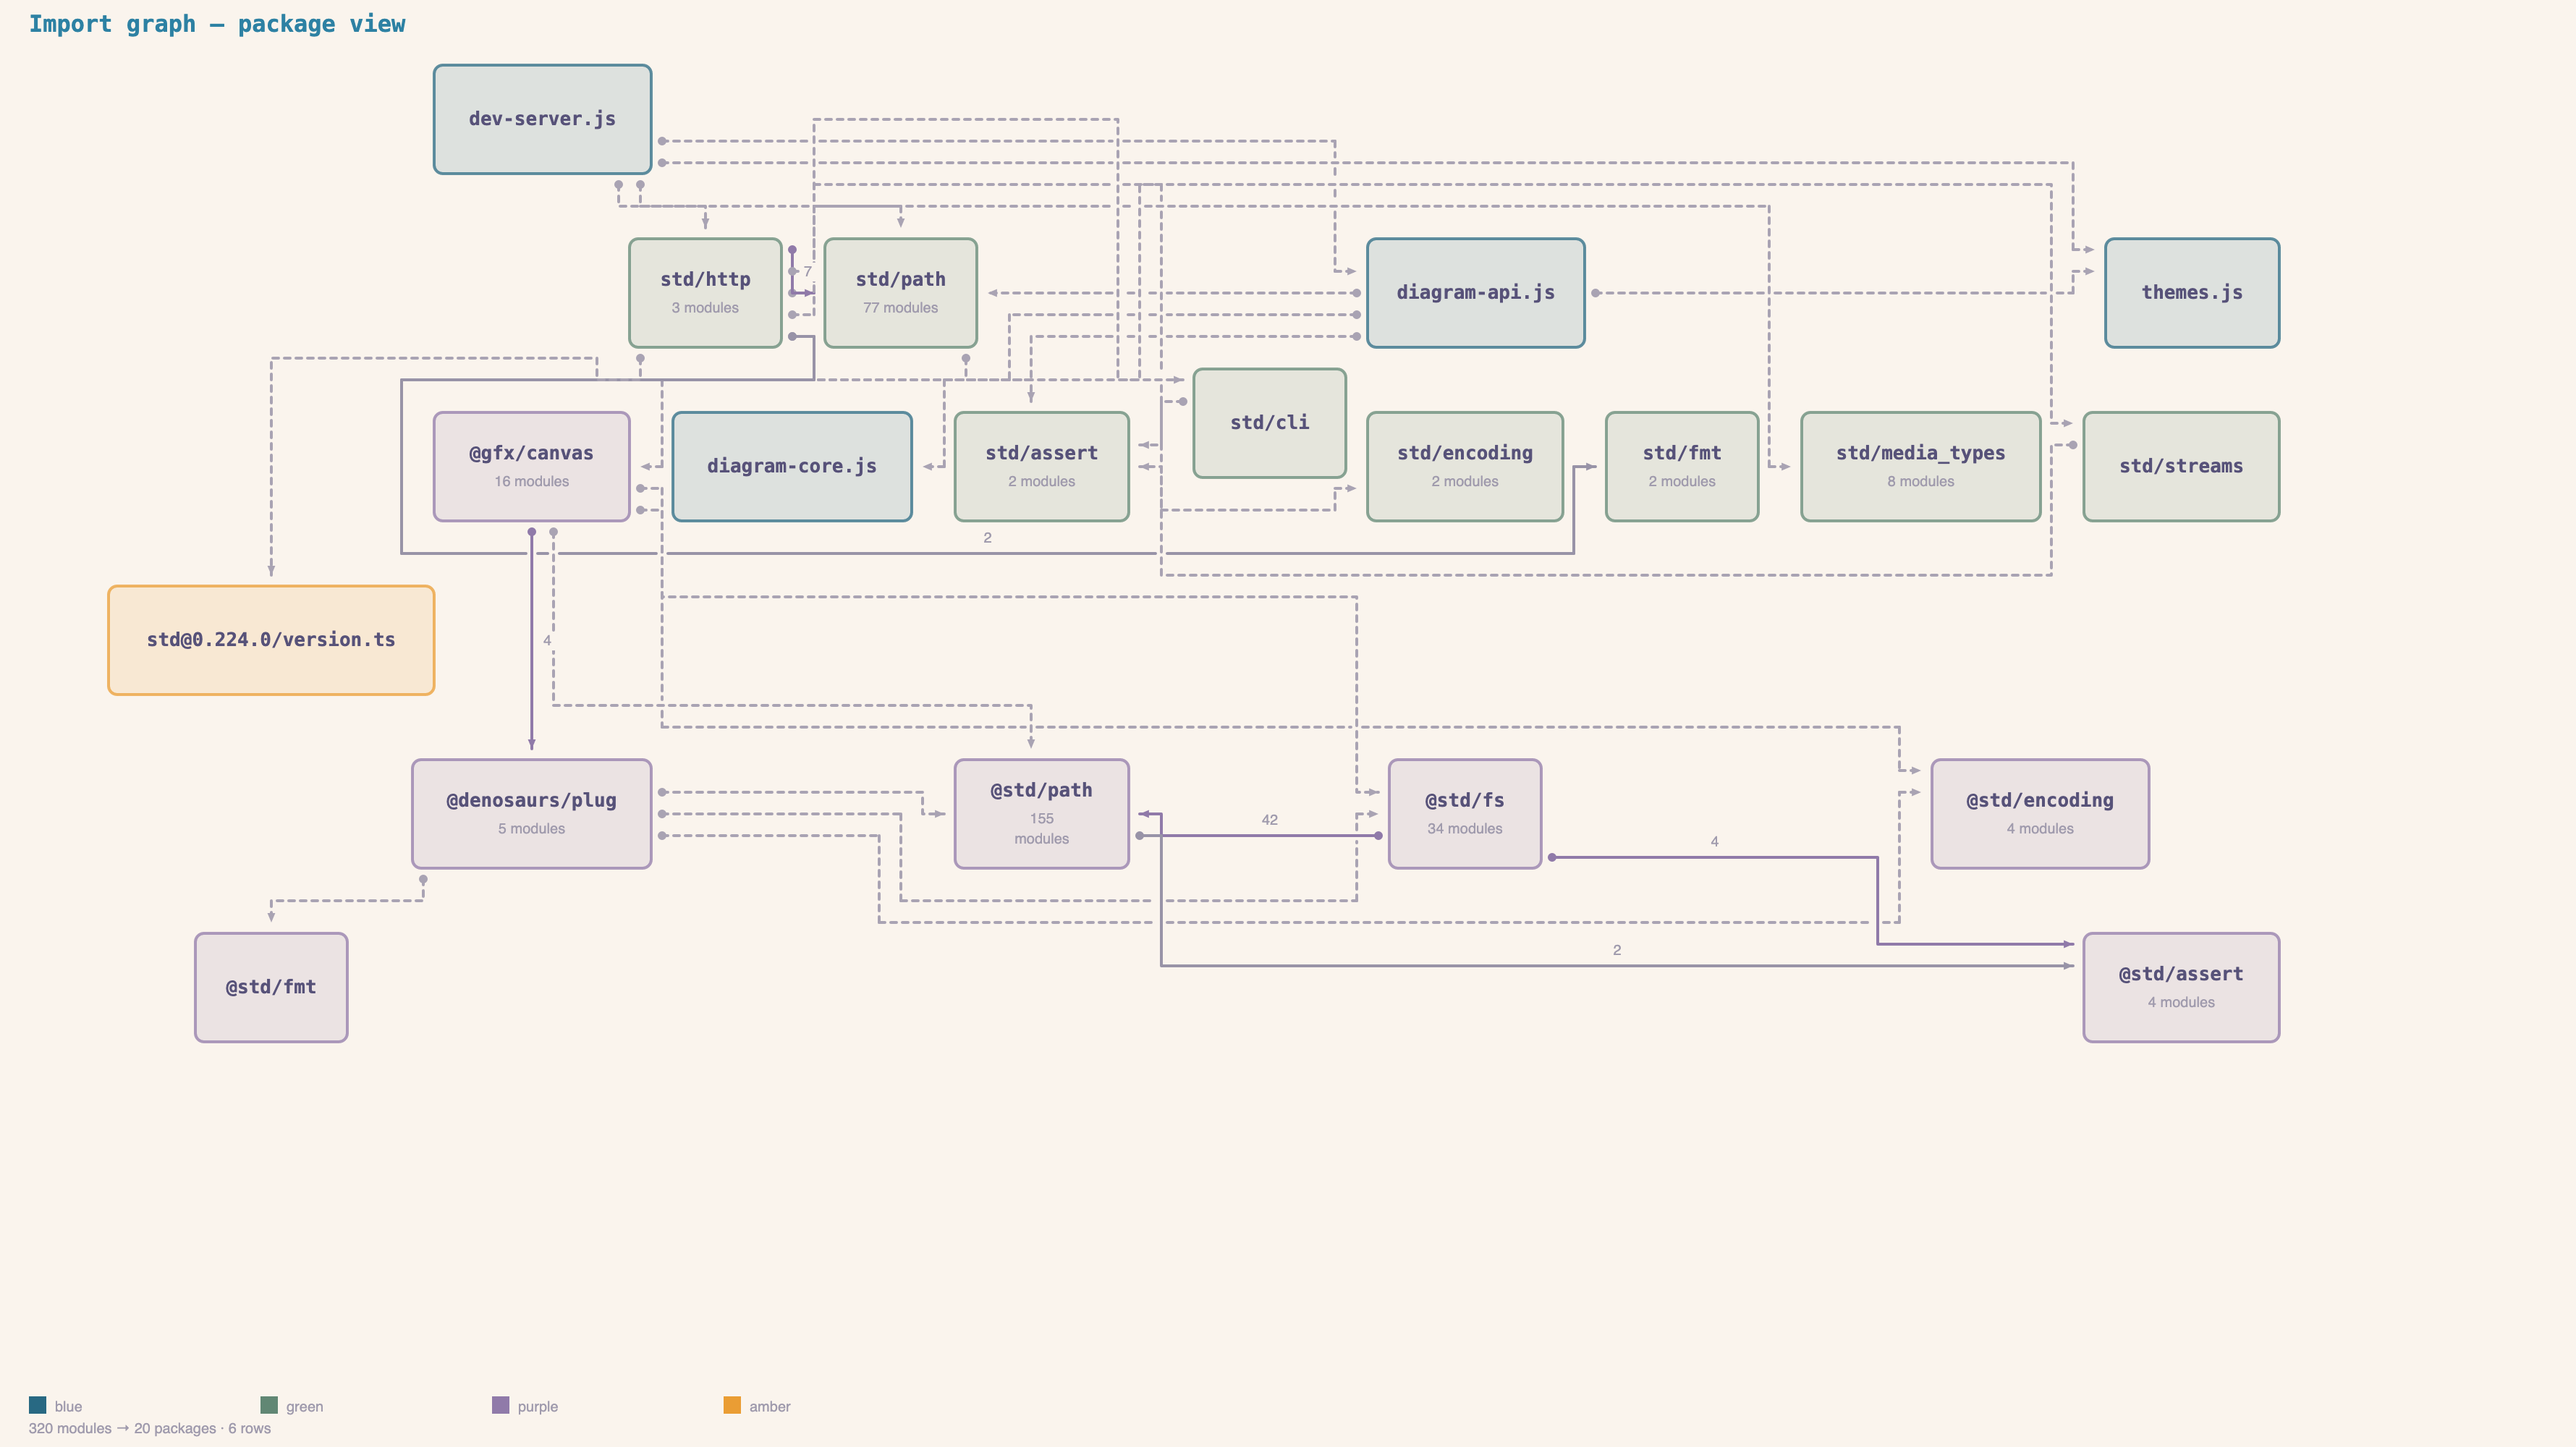
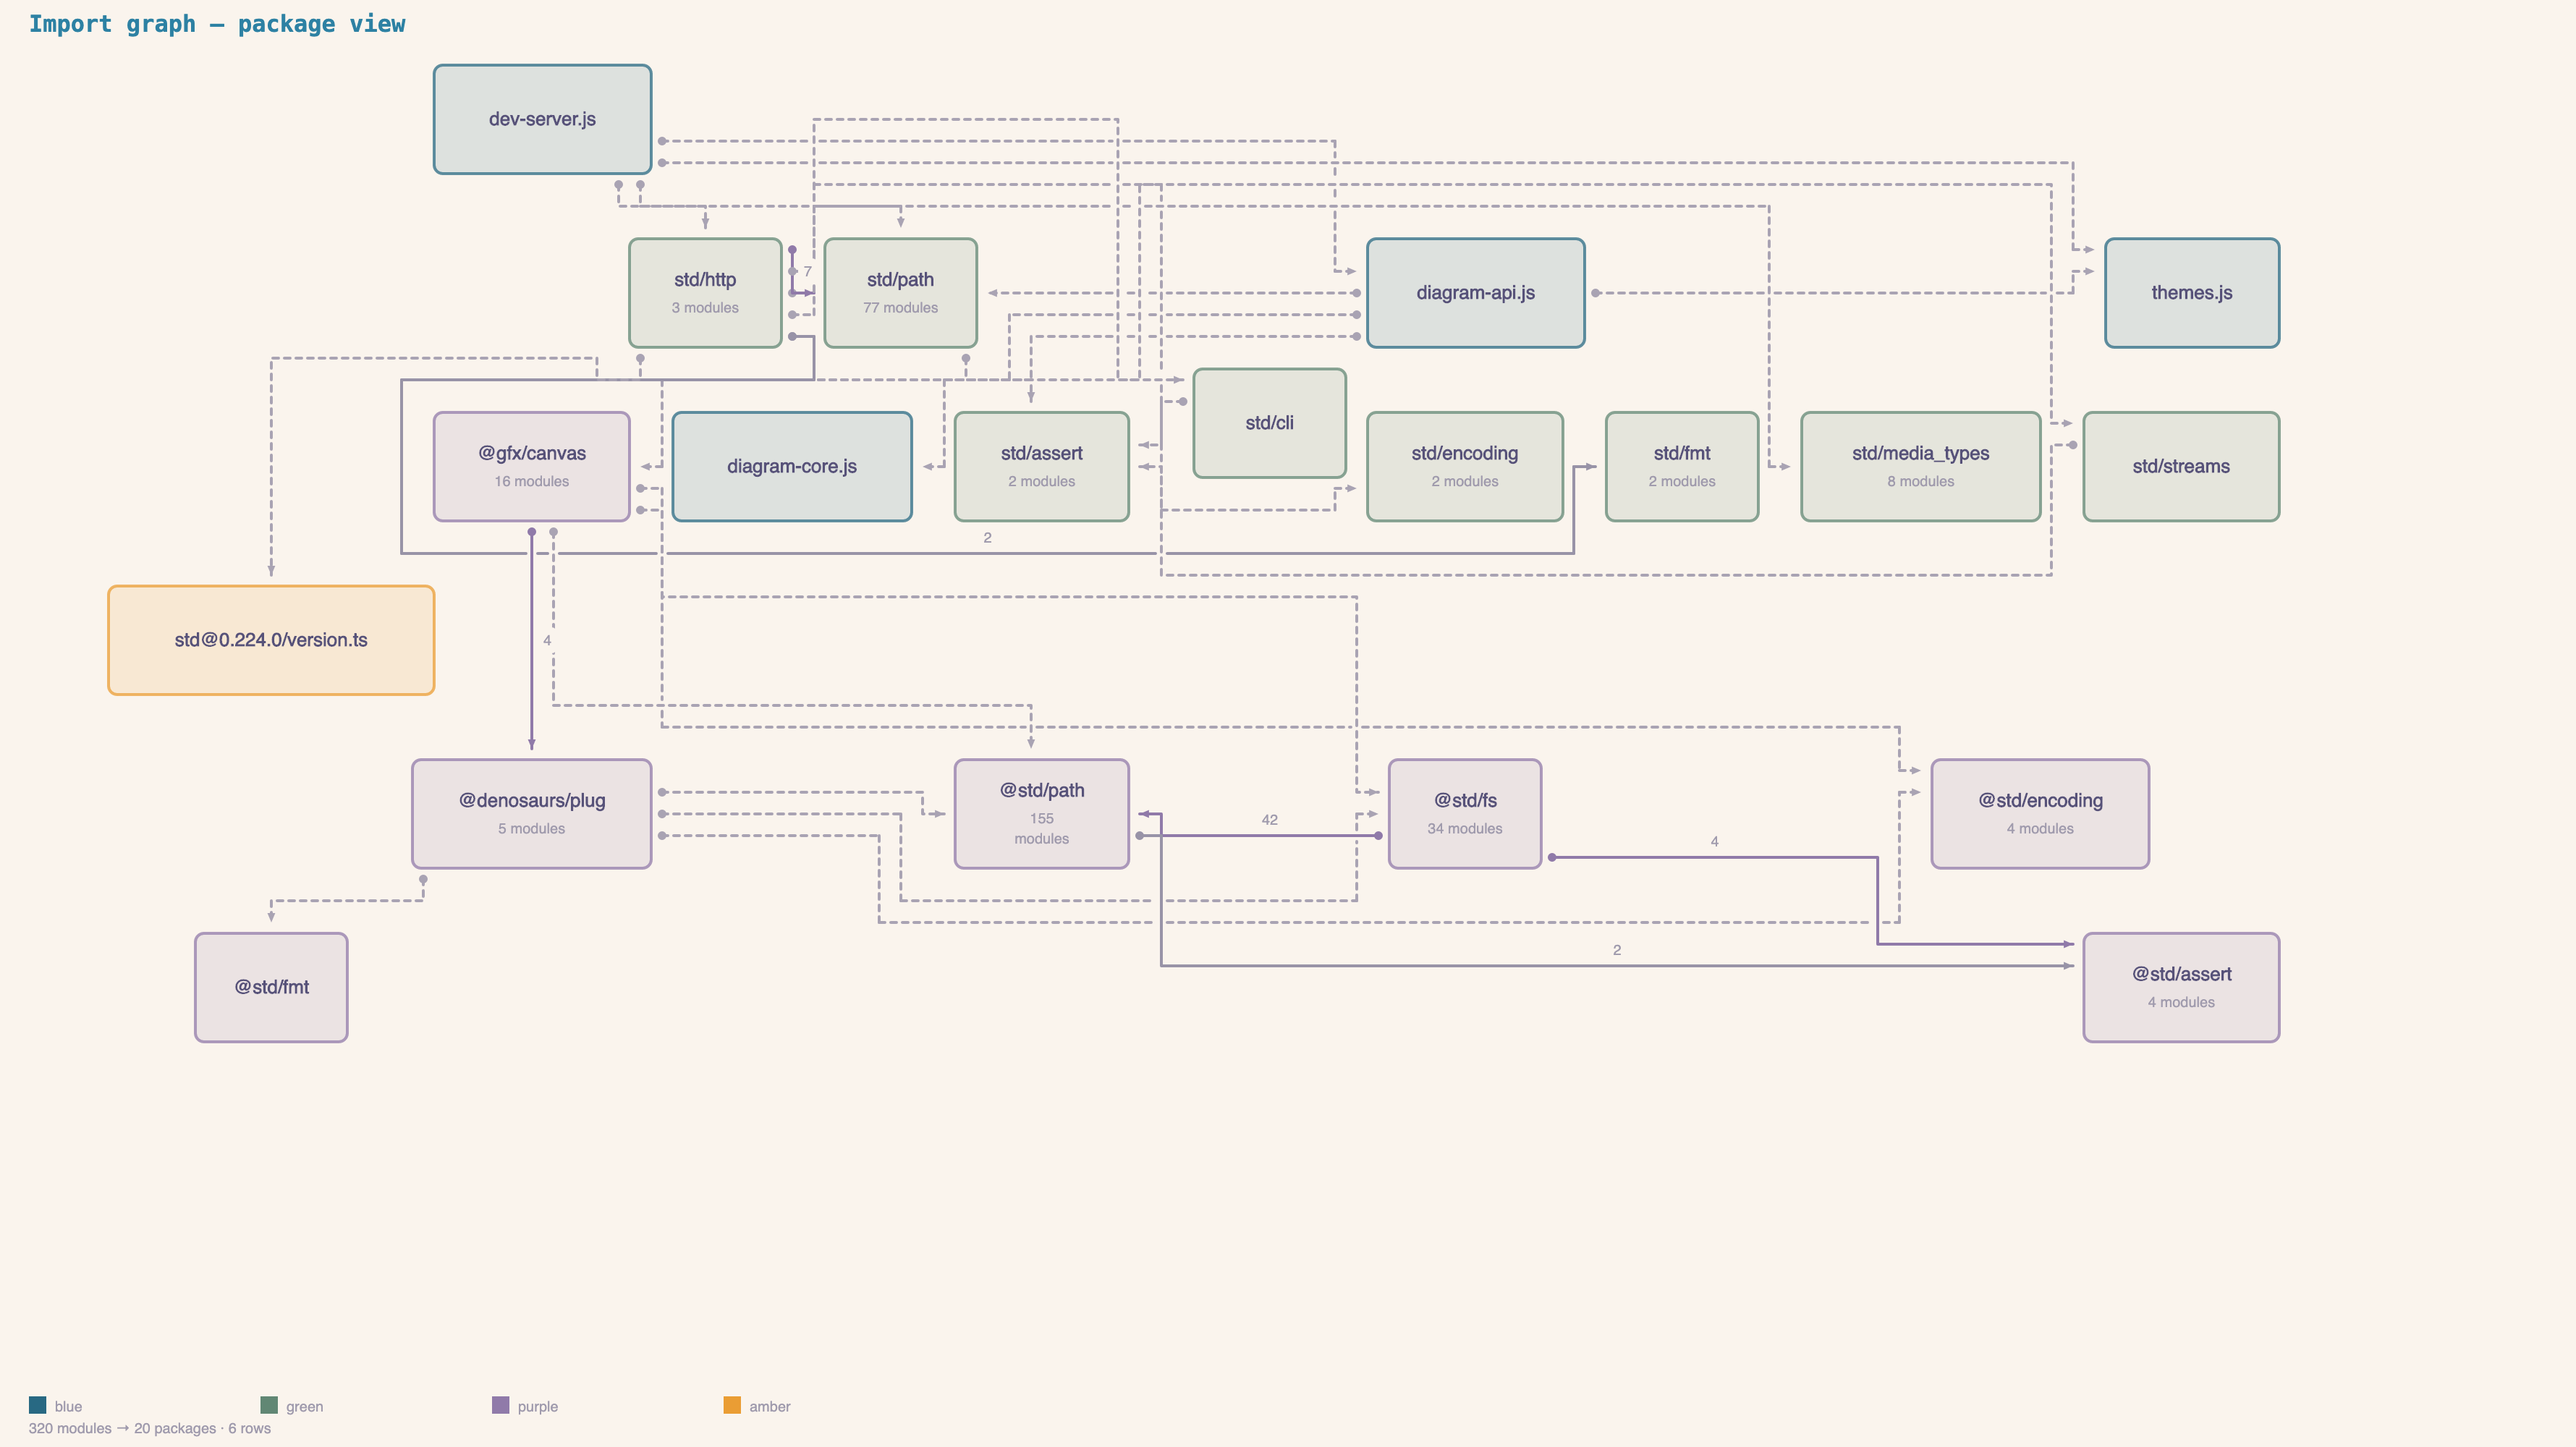
Give edge-label chips even padding and rounded corners
The chip was built from baseline-relative constants (top at ly-9, height
13), so a label with tall ascenders sat under a hairline of padding while
the descender side had more. It is now built out from the font's ascent and
descent with one LABEL_PAD on all four sides, and the corners are rounded
with the same drawRoundRect the boxes use.

diff --git a/diagram-core.js b/diagram-core.js
@@ -2059,7 +2059,15 @@ function segHitsRect(p, q, r) {
 // Chip rect + text baseline for a label centered on a segment midpoint, placed
 // on the given side at the given perpendicular offset. above/below suit a
 // horizontal wire, left/right a vertical one.
-function labelPlacement(mx, my, tw, side, offset) {
+// Chip padding around an edge label. Equal on all four sides: the box is built
+// out from the text's ascent and descent rather than from a fixed height, so a
+// label with tall ascenders is not left almost touching the top edge the way a
+// baseline-relative box left it.
+const LABEL_PAD = 4;
+const LABEL_ASCENT = 0.8; // of font size; @gfx/canvas has no usable text metrics
+const LABEL_DESCENT = 0.2;
+
+function labelPlacement(mx, my, tw, side, offset, fontSize = 10) {
   let lx, ly;
   if (side === "above") {
     lx = mx - tw / 2;
@@ -2074,7 +2082,18 @@ function labelPlacement(mx, my, tw, side, offset) {
     lx = mx + offset;
     ly = my + 3;
   } // right
-  return { lx, ly, rect: { x: lx - 3, y: ly - 9, w: tw + 6, h: 13 } };
+  const ascent = fontSize * LABEL_ASCENT;
+  const descent = fontSize * LABEL_DESCENT;
+  return {
+    lx,
+    ly,
+    rect: {
+      x: lx - LABEL_PAD,
+      y: ly - ascent - LABEL_PAD,
+      w: tw + LABEL_PAD * 2,
+      h: ascent + descent + LABEL_PAD * 2,
+    },
+  };
 }
 
 // A free (unconnected) connector end — a hollow port; the editor lets you drag
@@ -2338,7 +2357,8 @@ export function drawRoutes(
   // crossing wires and better than covering another label: take a clear spot
   // when one is within reach, otherwise sit on the box and let the chip carry
   // legibility.
-  ctx.font = `${(pal.sizes || DEFAULT_SIZES).edgeLabel}px ${pal.font}`;
+  const labelFs = (pal.sizes || DEFAULT_SIZES).edgeLabel;
+  ctx.font = `${labelFs}px ${pal.font}`;
   ctx.textAlign = "left";
   const wireCross = (rect) => {
     let c = 0;
@@ -2367,9 +2387,16 @@ export function drawRoutes(
     const explicit = t.lp.side && (orient.includes(t.lp.side));
     let chosen;
     if (explicit) {
-      chosen = labelPlacement(t.mx, t.my, tw, t.lp.side, baseOff);
+      chosen = labelPlacement(t.mx, t.my, tw, t.lp.side, baseOff, labelFs);
     } else {
-      const primary = labelPlacement(t.mx, t.my, tw, orient[0], baseOff);
+      const primary = labelPlacement(
+        t.mx,
+        t.my,
+        tw,
+        orient[0],
+        baseOff,
+        labelFs,
+      );
       const overlapsLabel = (rect) => placed.some((p) => rectsOverlap(rect, p));
       const conflict = (rect) =>
         (overlapsLabel(rect) ? OVER_LABEL : 0) +
@@ -2382,7 +2409,7 @@ export function drawRoutes(
         for (const off of [baseOff, baseOff * 2, baseOff * 3]) {
           for (const side of orient) {
             if (off === baseOff && side === orient[0]) continue; // == primary
-            const cand = labelPlacement(t.mx, t.my, tw, side, off);
+            const cand = labelPlacement(t.mx, t.my, tw, side, off, labelFs);
             const score = conflict(cand.rect) + wireCross(cand.rect);
             if (score < bestScore) {
               bestScore = score;
@@ -2428,7 +2455,17 @@ export function drawEdgeLabels(ctx, labelRects, pal) {
   for (const l of labelRects) {
     if (!l.label) continue;
     ctx.fillStyle = l.chipColor;
-    ctx.fillRect(l.rect.x, l.rect.y, l.rect.w, l.rect.h);
+    // Rounded to match the boxes it sits against; radius scales with the chip
+    // so it stays a soft corner rather than a lozenge.
+    drawRoundRect(
+      ctx,
+      l.rect.x,
+      l.rect.y,
+      l.rect.w,
+      l.rect.h,
+      Math.min(4, l.rect.h / 4),
+    );
+    ctx.fill();
     ctx.fillStyle = pal.textDim;
     ctx.fillText(l.label, l.lx, l.ly);
   }
